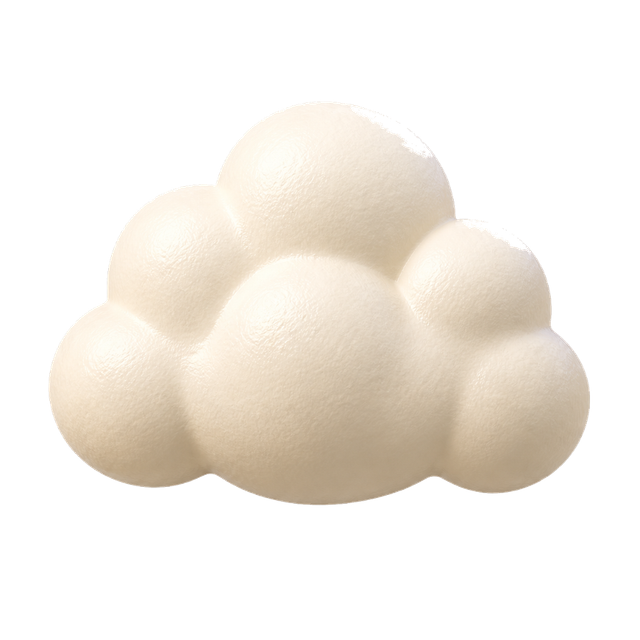
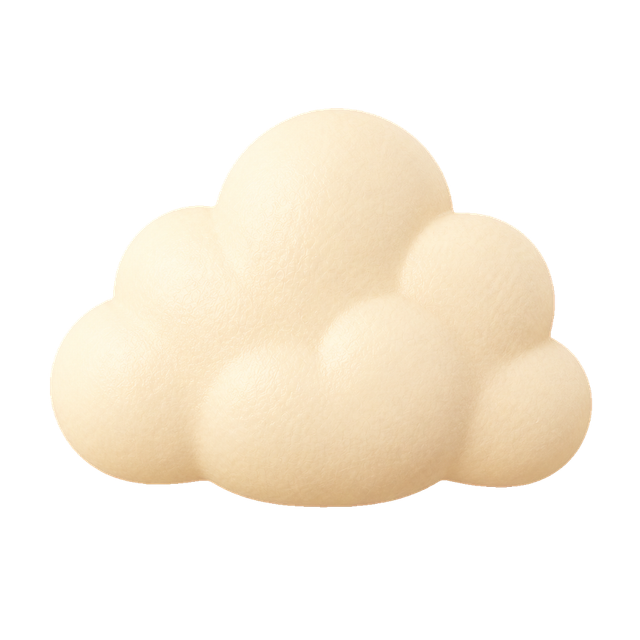
Bluemchen und Wolke sind heil, Defekt-Liste ist leer
Wolf hat beide neu ausgeleitet. 1024x1024, RGBA, echter Alphakanal.
Unveraendert uebernommen (md5 gegengeprueft), die alten Dateien liegen
unter design-assets/avatare-v5-original/defekt/. Beide Groessen in einem
Schritt aus dem Original abgeleitet, wie die Asset-Regeln es vorsehen.

Gegengeprueft, wie es sein muss: nicht mit meinem Werkzeug, das diese
Fehlerart nachweislich nicht findet, sondern auf gesaettigtem Grund
(scripts/avatare-auf-grund.mjs). Auf Teamrot und auf Weiss sind die fuenf
Blaetter des Gaensebluemchens vollstaendig und die Wolkenkante oben rechts
geschlossen. Damit sind alle 48 Motive im Umlauf.

Dazu, Wolf zur Avatar-Folie: "schreibe sucht euch einen team emoji aus
ohne den stern er passt nicht zu unserem set (oder ist er aus dem set?)".

Nein, ist er nicht: fx-sparkles gehoert zum Effekt-Satz (/icons/fx-*.png),
nicht zum Team-Avatarsatz V5. Zwei verschiedene Bildwelten. Und auf DIESER
Folie stehen acht Beispiele aus dem richtigen Satz direkt darunter - die
Kacheln sind das Zeichen. Also gar keins in der Ueberschrift; statTitle
nimmt dafuer jetzt null.

Claude-Session: https://claude.ai/code/session_01QzZkRyd75Q6eqFDuBPStVf

diff --git a/frontend/src/components/CozyQuizPausedView.tsx b/frontend/src/components/CozyQuizPausedView.tsx
@@ -426,7 +426,10 @@ export function PausedView({ state: s, mode = 'pause' }: { state: QQStateUpdate;
   // laengst. Nur die Joker-Koenig-Statistik hing noch am 🃏, das durch den
   // Emoji-Mapper faellt und als OS-Glyphe erschien. Jetzt ueberall derselbe
   // Joker.
-  const statTitle = (icon: string | React.ReactNode, titleDe: string, titleEn: string, accentColor?: string, zusatz?: React.ReactNode) => {
+  // `icon` darf null sein: manche Folien zeigen die Zeichen selbst, dann waere
+  // ein zweites in der Ueberschrift eins zu viel (2026-08-27, Wolf zur
+  // Avatar-Folie: „ohne den stern er passt nicht zu unserem set").
+  const statTitle = (icon: string | React.ReactNode | null, titleDe: string, titleEn: string, accentColor?: string, zusatz?: React.ReactNode) => {
     // Mono: editorial — schwarzer Titel (kein Akzent-Farb-Leak), uppercase.
     const mono = isQuietMotion();
     return (
@@ -437,9 +440,11 @@ export function PausedView({ state: s, mode = 'pause' }: { state: QQStateUpdate;
       textTransform: mono ? 'uppercase' : undefined,
       letterSpacing: mono ? '-0.01em' : undefined,
     }}>
-      <span style={{ display: 'inline-block', animation: 'panelIconPop 0.7s var(--qq-ease-bounce) 0.25s both' }}>
-        {typeof icon === 'string' ? <QQEmojiIcon emoji={icon}/> : icon}
-      </span>
+      {icon !== null && (
+        <span style={{ display: 'inline-block', animation: 'panelIconPop 0.7s var(--qq-ease-bounce) 0.25s both' }}>
+          {typeof icon === 'string' ? <QQEmojiIcon emoji={icon}/> : icon}
+        </span>
+      )}
       {de ? titleDe : titleEn}
       {zusatz}
     </div>
@@ -746,10 +751,14 @@ export function PausedView({ state: s, mode = 'pause' }: { state: QQStateUpdate;
       const SPALTEN = 4, ZEILEN = 2;
       panels.push({ key: 'avatare', node: (
         <div style={{ width: 'min(100%, 1280px)', margin: '0 auto' }}>
-          {/* 2026-08-27: 🎨 hat im Satz kein Bild. `fx-sparkles` statt eines
-              rohen Zeichens - die Karte zeigt ohnehin die Objekte selbst,
-              die Ueberschrift braucht kein zweites Motiv. */}
-          {statTitle(<QQIcon slug="fx-sparkles" size="1em" />, 'Sucht euch einen aus', 'Pick your avatar')}
+          {/* 2026-08-27: hier stand erst ein rohes 🎨, dann `fx-sparkles`.
+              Wolf: „ohne den stern er passt nicht zu unserem set (oder ist er
+              aus dem set?)". Nein, ist er nicht - `fx-sparkles` gehoert zum
+              Effekt-Satz (`/icons/fx-*.png`), nicht zum Team-Avatarsatz V5.
+              Zwei verschiedene Bildwelten, und auf DIESER Folie stehen acht
+              Beispiele aus dem richtigen Satz direkt darunter. Also gar kein
+              Zeichen: die Kacheln sind das Zeichen. */}
+          {statTitle(null, 'Sucht euch ein Team-Emoji aus', 'Pick your team emoji')}
           {/* Eigene Komponente, siehe ihren Kopf: der Takt darf nicht im State
               der PausedView liegen, sonst baut die zweimal je Sekunde ihre
               zwanzig Karten neu. */}

diff --git a/frontend/src/cozyquizAvatars.ts b/frontend/src/cozyquizAvatars.ts
@@ -173,7 +173,12 @@ export const COZYQUIZ_DEFEKT: readonly string[] = [
   // Hintergrundentfernung nicht sauber trennen, also frisst sie mit. Dieselbe
   // Ursache wie bei der alten Discokugel. Das ist eine Beobachtungsliste, kein
   // Pruefwert - und die Kontrolle bleibt das Blatt auf Pink.
-  'daisy', 'cloud',
+  // Beide am selben Abend neu ausgeleitet und wieder drin. Gegengeprueft auf
+  // Teamrot und auf Weiss (`node scripts/avatare-auf-grund.mjs`): die
+  // Blaetter des Gaensebluemchens sind vollstaendig, die Wolkenkante ist oben
+  // rechts geschlossen. Die alten Dateien liegen unter
+  // `design-assets/avatare-v5-original/defekt/`.
+  //
   // 2026-08-27, erste Runde: Wolf hat alle fuenf neu ausgeleitet.
   // Gemessen mit `node scripts/avatare-loecher.mjs`, und die Lochzahlen passen
   // diesmal zu den Motiven statt zu Zufall:
